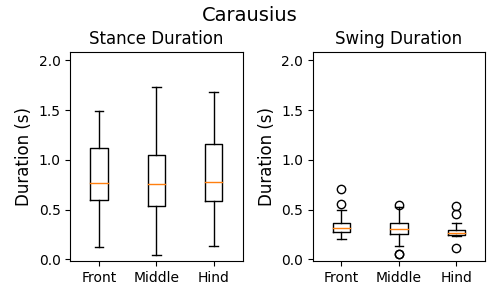
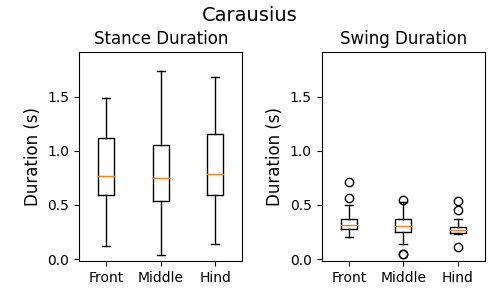
commit

diff --git a/expert_data_builder/stick_insect/plot_swing_stance_duration.py b/expert_data_builder/stick_insect/plot_swing_stance_duration.py
@@ -103,12 +103,12 @@ def plot_swing_stance_duration(path, title, save_name):
     plt.boxplot([front_stance, middle_stance, hind_stance], labels=['Front', 'Middle', 'Hind'])
     plt.title('Stance Duration', fontsize = 12)
     plt.ylabel('Duration (s)', fontsize = 12)
-    plt.ylim(-0.02, max_duration*1.2)
+    plt.ylim(-0.02, max_duration*1.1)
     plt.subplot(1, 2, 2)
     plt.boxplot([front_swing, middle_swing, hind_swing], labels=['Front', 'Middle', 'Hind'])
     plt.title('Swing Duration', fontsize = 12)
     plt.ylabel('Duration (s)', fontsize = 12)
-    plt.ylim(-0.02, max_duration*1.2)
+    plt.ylim(-0.02, max_duration*1.1)
     plt.tight_layout(rect=[0, 0, 1, 0.95])
     plt.suptitle(title, fontsize = 14)
     plt.savefig(f'expert_data_builder/stick_insect/morphology/{save_name}.png') 
